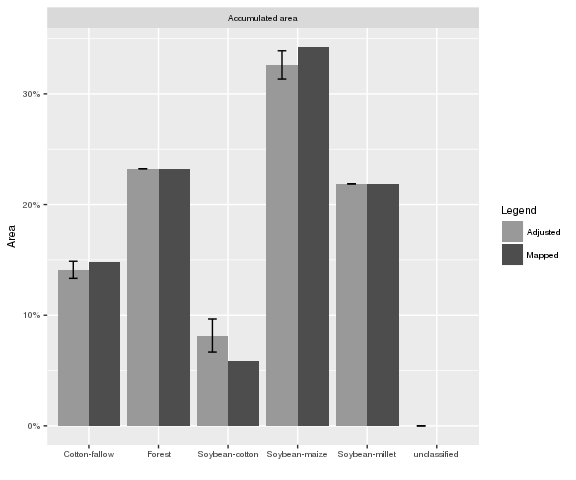
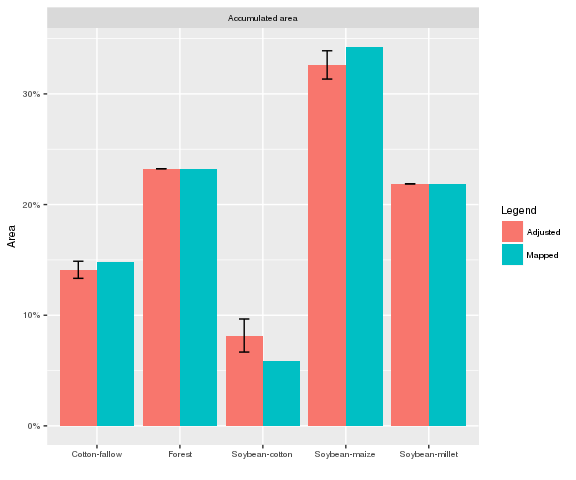
Update README figures

diff --git a/README.md b/README.md
@@ -76,7 +76,7 @@ show(matches)
 
     ## An object of class "twdtwMatches"
     ## Number of time series: 1 
-    ## Number of Alignments: 16 
+    ## Number of Alignments: 27 
     ## Patterns labels: Soybean Cotton Maize
 
 We can use several plot methods to visualize the results of the analysis in the `twdtwMatches` object, for example, to plot the alignments
@@ -262,7 +262,6 @@ show(twdtw_assess)
     ## Soybean-cotton     1.00 0.00000 0.000 0.000
     ## Soybean-maize      0.95 0.00036 0.019 0.037
     ## Soybean-millet     1.00 0.00000 0.000 0.000
-    ## unclassified        NaN     NaN   NaN   NaN
     ## 
     ## Producer's
     ##                Accuracy    Var    sd  ci*
@@ -271,7 +270,6 @@ show(twdtw_assess)
     ## Soybean-cotton     0.72 0.0045 0.067 0.13
     ## Soybean-maize      1.00 0.0000 0.000 0.00
     ## Soybean-millet     1.00 0.0000 0.000 0.00
-    ## unclassified        NaN    NaN    NA   NA
     ## 
     ## Area and uncertainty
     ##                 Mapped Adjusted     ci*
@@ -280,7 +278,6 @@ show(twdtw_assess)
     ## Soybean-cotton 1.9e+07  2.6e+07 4805205
     ## Soybean-maize  1.1e+08  1.0e+08 4113071
     ## Soybean-millet 7.0e+07  7.0e+07       0
-    ## unclassified   0.0e+00  0.0e+00       0
     ## 
     ## * 95 % confidence interval
 
